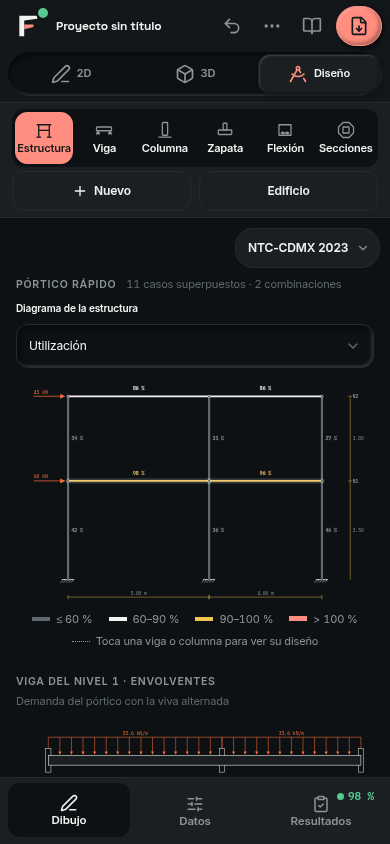
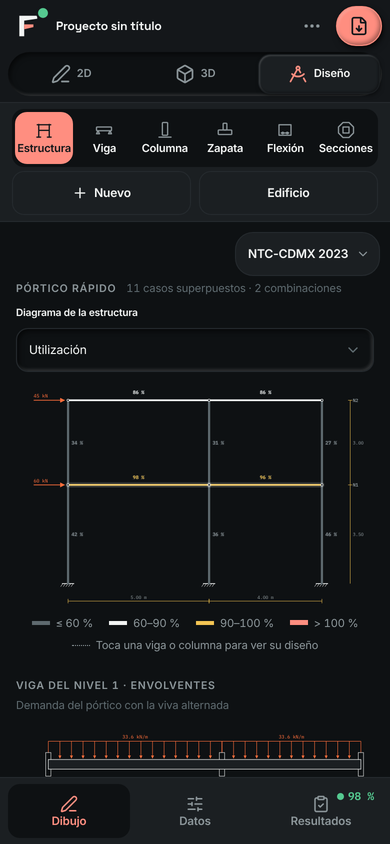
Brandbook: Diseño en teléfono con la barra mínima
Capturas 390×844 Día/Noche del proyecto completo en Diseño con la barra que
deja el nombre, «⋯» y PDF, y la nota de la ficha.

Claude-Session: https://claude.ai/code/session_013euGpTZ9ZP9ftezKs4gGH6

diff --git a/docs/brandbook/index.html b/docs/brandbook/index.html
@@ -176,7 +176,7 @@ body{background:#EDEFE9}
 <span style="font-family: 'IBM Plex Mono', monospace; font-size: 11px; letter-spacing: .14em; text-transform: uppercase; color: #5C6A6F">05 / 7 · Interfaces</span></div>
 <h1 style="margin: 0; font-family: 'Space Grotesk', sans-serif; font-weight: 600; font-size: 64px; line-height: 1; letter-spacing: -.035em">Tres mesas, un marco</h1>
 <p style="margin: 0; max-width: 920px; font-size: 19px; line-height: 1.55; color: #3F4A50">Capturas de la app en Día y Noche, actualizadas el 1 de octubre de 2026. Las tres mesas comparten navegación, guía contextual y nombre editable; cada herramienta conserva sus propios datos.</p>
-</header><section style="display: flex; flex-direction: column; gap: 16px"><div style="display: flex; align-items: baseline; gap: 16px"><span style="font-family: 'IBM Plex Mono', monospace; font-size: 11px; letter-spacing: .14em; text-transform: uppercase; color: #5C6A6F">Home</span><h2 style="margin: 0; font-family: 'Space Grotesk', sans-serif; font-weight: 600; font-size: 30px; letter-spacing: -.02em">Una sola portada</h2></div><div style="display: grid; grid-template-columns: repeat(2, minmax(0, 1fr)); gap: 20px"><figure style="margin: 0; display: flex; flex-direction: column; gap: 8px"><img src="assets/home-dia.png" alt="Home de FStructure · Día" style="display: block; width: 100%; aspect-ratio: 1440 / 900; border-radius: 12px; box-shadow: 0 0 0 1px #C6CDC6, 2px 6px 16px -4px rgb(20 23 26 / 22%)"><figcaption style="font-family: 'IBM Plex Mono', monospace; font-size: 11px; letter-spacing: .12em; text-transform: uppercase; color: #5C6A6F">Día</figcaption></figure><figure style="margin: 0; display: flex; flex-direction: column; gap: 8px"><img src="assets/home-noche.png" alt="Home de FStructure · Noche" style="display: block; width: 100%; aspect-ratio: 1440 / 900; border-radius: 12px; box-shadow: 0 0 0 1px #C6CDC6, 2px 6px 16px -4px rgb(20 23 26 / 22%)"><figcaption style="font-family: 'IBM Plex Mono', monospace; font-size: 11px; letter-spacing: .12em; text-transform: uppercase; color: #5C6A6F">Noche</figcaption></figure></div><ul style="margin: 0; padding-left: 18px; display: grid; grid-template-columns: repeat(2, minmax(0, 1fr)); gap: 6px 40px; color: #3F4A50"><li style="font-size: 14px; line-height: 1.5">Una sola portada (FEM se retiró el 7 de octubre de 2026): título, proyecto abierto con «Continuar» y «Nuevo», e ilustración clay del pórtico.</li><li style="font-size: 14px; line-height: 1.5">«Calcular por separado» (14 de octubre de 2026): ocho mosaicos —Modelo 2D, Modelo 3D, Viga, Columna, Zapata, Sección a flexión, Estudio de sección y Pórtico— que abren la misma pantalla de siempre como archivo individual: sin interruptor de modos ni enlaces, con «Individual · …» en la barra. <a href="assets/individual-zapata-dia.png">Zapata individual</a>. Cada mesa abre lista para calcular: el Modelo 2D vacío muestra «Empieza tu modelo 2D» con cinco estructuras completas (viga apoyada, voladizo, viga continua, pórtico y armadura Pratt), el generador y el dibujo libre (<a href="assets/individual-2d-inicio-dia.jpg">Día</a> · <a href="assets/individual-2d-inicio-movil-noche.jpg">teléfono Noche</a>); una pieza sola no lleva selector de elementos, sólo «Nuevo».</li><li style="font-size: 14px; line-height: 1.5">«Proyecto completo»: las tres tarjetas con escena (1 Modelo 2D, 2 Modelo 3D, 3 Diseño) del proyecto enlazado y «Nuevo proyecto»; con un individual abierto empiezan un proyecto nuevo.</li><li style="font-size: 14px; line-height: 1.5">Proyectos recientes y «Más» (Plantillas, Aula, Importar, Biblioteca); cada sección abre su página dentro de la Home con «← Inicio» y vive en la URL (<code>view=</code>).</li><li style="font-size: 14px; line-height: 1.5">Selector ES/EN y Día/Noche en la barra; en teléfono todo es una columna con objetivos de 44 px.</li></section><section style="display: flex; flex-direction: column; gap: 16px"><div style="display: flex; align-items: baseline; gap: 16px"><span style="font-family: 'IBM Plex Mono', monospace; font-size: 11px; letter-spacing: .14em; text-transform: uppercase; color: #5C6A6F">FS-A01</span><h2 style="margin: 0; font-family: 'Space Grotesk', sans-serif; font-weight: 600; font-size: 30px; letter-spacing: -.02em">FStructure 2D</h2></div><div style="display: grid; grid-template-columns: repeat(2, minmax(0, 1fr)); gap: 20px"><figure style="margin: 0; display: flex; flex-direction: column; gap: 8px"><img src="assets/model2d-dia.png" alt="FStructure 2D · Día" style="display: block; width: 100%; aspect-ratio: 1440 / 900; border-radius: 12px; box-shadow: 0 0 0 1px #C6CDC6, 2px 6px 16px -4px rgb(20 23 26 / 22%)"><figcaption style="font-family: 'IBM Plex Mono', monospace; font-size: 11px; letter-spacing: .12em; text-transform: uppercase; color: #5C6A6F">Día</figcaption></figure><figure style="margin: 0; display: flex; flex-direction: column; gap: 8px"><img src="assets/model2d-noche.png" alt="FStructure 2D · Noche" style="display: block; width: 100%; aspect-ratio: 1440 / 900; border-radius: 12px; box-shadow: 0 0 0 1px #C6CDC6, 2px 6px 16px -4px rgb(20 23 26 / 22%)"><figcaption style="font-family: 'IBM Plex Mono', monospace; font-size: 11px; letter-spacing: .12em; text-transform: uppercase; color: #5C6A6F">Noche</figcaption></figure></div><div style="display: grid; grid-template-columns: repeat(2, minmax(0, 1fr)); gap: 20px"><figure style="margin: 0; display: flex; flex-direction: column; gap: 8px"><img src="assets/model2d-dock-movil-noche.jpg" alt="FStructure 2D en teléfono · dock dinámico, teclado de coordenadas y resultados · Noche" style="display: block; width: 100%; border-radius: 12px; box-shadow: 0 0 0 1px #C6CDC6, 2px 6px 16px -4px rgb(20 23 26 / 22%)"><figcaption style="font-family: 'IBM Plex Mono', monospace; font-size: 11px; letter-spacing: .12em; text-transform: uppercase; color: #5C6A6F">Teléfono · Noche</figcaption></figure><figure style="margin: 0; display: flex; flex-direction: column; gap: 8px"><img src="assets/model2d-dock-movil-dia.jpg" alt="FStructure 2D en teléfono · apoyos, valor de carga y Avanzado · Día" style="display: block; width: 100%; border-radius: 12px; box-shadow: 0 0 0 1px #C6CDC6, 2px 6px 16px -4px rgb(20 23 26 / 22%)"><figcaption style="font-family: 'IBM Plex Mono', monospace; font-size: 11px; letter-spacing: .12em; text-transform: uppercase; color: #5C6A6F">Teléfono · Día</figcaption></figure><figure style="margin: 0; display: flex; flex-direction: column; gap: 8px"><img src="assets/model2d-inspector-dia.jpg" alt="FStructure 2D · Inspector en filas · Día" style="display: block; width: 100%; border-radius: 12px; box-shadow: 0 0 0 1px #C6CDC6, 2px 6px 16px -4px rgb(20 23 26 / 22%)"><figcaption style="font-family: 'IBM Plex Mono', monospace; font-size: 11px; letter-spacing: .12em; text-transform: uppercase; color: #5C6A6F">Inspector · Día</figcaption></figure></div><ul style="margin: 0; padding-left: 18px; display: grid; grid-template-columns: repeat(2, minmax(0, 1fr)); gap: 6px 40px; color: #3F4A50"><li style="font-size: 14px; line-height: 1.5">Barra: nombre editable con Escape y retorno del foco; estado, interruptor 2D | 3D | Diseño (en teléfono, los otros dos modos y sólo la marca: el nombre ya no cabía), Resultados, Panel, Guía, tema y Analizar.</li><li style="font-size: 14px; line-height: 1.5">Lienzo hundido a sangre y dock flotante. La herramienta se nombra sin instrucciones encima del lienzo; las barras se encadenan (el extremo nuevo es el inicio de la siguiente; Escape, «Terminar» o picar el último nudo cierran la cadena). El Inspector de una barra de pórtico o de armadura ofrece «Diseñar», que abre su revisión disponible en el modo Diseño.</li><li style="font-size: 14px; line-height: 1.5">Teléfono: dock dinámico (Seleccionar, Nodo, Barra, Apoyo, Carga y Más) con una cápsula que cambia con lo que se hace: coordenadas con el teclado completo del teléfono, que sube con el panel (↵ pasa de X a Y y coloca; se puede escribir «3,5 m») y ajuste a la rejilla al colocar; P · q · M al cargar; la carga recién puesta convierte el dock en su campo de valor, sobre el teclado, con su sentido a un toque; Propiedades, Editar, Diseñar y Eliminar con una selección. Apoyos en mosaicos con su dibujo. La página no se amplía (sólo el lienzo) y una hoja abierta ya no reencuadra el modelo.</li><li style="font-size: 14px; line-height: 1.5">Inspector en filas: tipo segmentado, X·Y en una línea, liberaciones N · V · M por extremo y «Avanzado» como lista de filas con su valor que se despliegan al tocarlas; las aclaraciones van tras un ⓘ. En teléfono la hoja nace a media altura y se arrastra por su asa.</li><li style="font-size: 14px; line-height: 1.5">Franja de estado al pie; Guía explica creación, análisis, resultados y atajos. Resultados suma la Lámina: N, V, M y Δ del miembro apilados con un cursor, con las mismas bandas que Diseño.</li></ul></section><section style="display: flex; flex-direction: column; gap: 16px"><div style="display: flex; align-items: baseline; gap: 16px"><span style="font-family: 'IBM Plex Mono', monospace; font-size: 11px; letter-spacing: .14em; text-transform: uppercase; color: #5C6A6F">FS-A01 · Modo 3D</span><h2 style="margin: 0; font-family: 'Space Grotesk', sans-serif; font-weight: 600; font-size: 30px; letter-spacing: -.02em">FStructure · 3D</h2></div><div style="display: grid; grid-template-columns: repeat(2, minmax(0, 1fr)); gap: 20px"><figure style="margin: 0; display: flex; flex-direction: column; gap: 8px"><img src="assets/space3d-dia.png" alt="FStructure · 3D · Día" style="display: block; width: 100%; aspect-ratio: 1440 / 900; border-radius: 12px; box-shadow: 0 0 0 1px #C6CDC6, 2px 6px 16px -4px rgb(20 23 26 / 22%)"><figcaption style="font-family: 'IBM Plex Mono', monospace; font-size: 11px; letter-spacing: .12em; text-transform: uppercase; color: #5C6A6F">Día</figcaption></figure><figure style="margin: 0; display: flex; flex-direction: column; gap: 8px"><img src="assets/space3d-noche.png" alt="FStructure · 3D · Noche" style="display: block; width: 100%; aspect-ratio: 1440 / 900; border-radius: 12px; box-shadow: 0 0 0 1px #C6CDC6, 2px 6px 16px -4px rgb(20 23 26 / 22%)"><figcaption style="font-family: 'IBM Plex Mono', monospace; font-size: 11px; letter-spacing: .12em; text-transform: uppercase; color: #5C6A6F">Noche</figcaption></figure></div><ul style="margin: 0; padding-left: 18px; display: grid; grid-template-columns: repeat(2, minmax(0, 1fr)); gap: 6px 40px; color: #3F4A50"><li style="font-size: 14px; line-height: 1.5">La misma barra que el 2D y Diseño, con el interruptor de modos y «Traer del 2D»: el pórtico plano extruido en pórticos paralelos (aquí, la plantilla en tres pórticos). Del 2D al 3D el plano se tiende y el espacio emerge.</li><li style="font-size: 14px; line-height: 1.5">Archivo, Definir, Asignar, Mostrar y Vista. En teléfono, los comandos se distribuyen por filas y el menú se desplaza sin quedar cubierto.</li><li style="font-size: 14px; line-height: 1.5">Dock de creación; Ruta del cálculo indica el siguiente paso. Abrir un menú da prioridad a sus comandos sobre las guías del visor.</li><li style="font-size: 14px; line-height: 1.5">Resultados con unidades, diagrama, valor crítico y tablas; franja con conteos, caso, vista y herramienta.</li></ul></section><section style="display: flex; flex-direction: column; gap: 16px"><div style="display: flex; align-items: baseline; gap: 16px"><span style="font-family: 'IBM Plex Mono', monospace; font-size: 11px; letter-spacing: .14em; text-transform: uppercase; color: #5C6A6F">FS-A01 · Modo Diseño</span><h2 style="margin: 0; font-family: 'Space Grotesk', sans-serif; font-weight: 600; font-size: 30px; letter-spacing: -.02em">FStructure · Diseño</h2></div><p style="margin:0;font-size:14px;line-height:1.6;color:#3F4A50">Móvil · 11 de octubre de 2026: seis elementos en una fila (desplazable en 320 px), acciones compactas, láminas sin cuadrícula, campos de 44 px y vistas completas también en horizontal. <a href="assets/movil-diseno-dia.png">Día</a> · <a href="assets/movil-diseno-noche.png">Noche</a>. Home en teléfono: lo abierto, los mosaicos individuales en dos columnas y el proyecto completo antes de recientes: <a href="assets/movil-home-dia.png">Día</a> · <a href="assets/movil-home-noche.png">Noche</a>.</p><div style="display: grid; grid-template-columns: repeat(2, minmax(0, 1fr)); gap: 20px"><figure style="margin: 0; display: flex; flex-direction: column; gap: 8px"><img src="assets/design-dia.png" alt="FStructure · Diseño · Día" style="display: block; width: 100%; aspect-ratio: 1440 / 900; border-radius: 12px; box-shadow: 0 0 0 1px #C6CDC6, 2px 6px 16px -4px rgb(20 23 26 / 22%)"><figcaption style="font-family: 'IBM Plex Mono', monospace; font-size: 11px; letter-spacing: .12em; text-transform: uppercase; color: #5C6A6F">Día</figcaption></figure><figure style="margin: 0; display: flex; flex-direction: column; gap: 8px"><img src="assets/design-noche.png" alt="FStructure · Diseño · Noche" style="display: block; width: 100%; aspect-ratio: 1440 / 900; border-radius: 12px; box-shadow: 0 0 0 1px #C6CDC6, 2px 6px 16px -4px rgb(20 23 26 / 22%)"><figcaption style="font-family: 'IBM Plex Mono', monospace; font-size: 11px; letter-spacing: .12em; text-transform: uppercase; color: #5C6A6F">Noche</figcaption></figure></div><ul style="margin: 0; padding-left: 18px; display: grid; grid-template-columns: repeat(2, minmax(0, 1fr)); gap: 6px 40px; color: #3F4A50"><li style="font-size: 14px; line-height: 1.5">La misma barra y el mismo proyecto que los modos 2D y 3D, con el interruptor 2D | 3D | Diseño, el veredicto, la Guía de diseño y Copiar memoria; un fallo de copia se explica y se reintenta.</li><li style="font-size: 14px; line-height: 1.5">Datos explica cálculo automático y unidades. Revisar datos abre el formulario y lleva el foco al primer campo inválido.</li><li style="font-size: 14px; line-height: 1.5">DCL antes de las láminas: la viga dibuja sus cargas últimas y las reacciones de cada apoyo (con momento en el empotramiento) y cierra ΣFy = 0; la tabla «Reacciones» da CM, CV, combinación y máxima alternada, y ambas van a la memoria. Los cortes de zapata aislada, corrida y combinada muestran Pu o wu, la presión del suelo y las secciones críticas M, d y d/2 con su Mu y Vu. <a href="assets/viga-dcl-dia.jpg">Viga · Día</a> · <a href="assets/viga-dcl-noche.jpg">Noche</a> · <a href="assets/zapata-cortes-dia.jpg">Zapata</a>.</li><li style="font-size: 14px; line-height: 1.5">Láminas con valores por claro y apoyo, resistencia φMn y φVn escalonada y un cursor que lee M, V, φMn, φVn y Δ en cualquier sección (puntero, toque o flechas).</li><li style="font-size: 14px; line-height: 1.5">Dock de Estructura, Viga, Columna, Zapata y Secciones. Estructura diseña el Modelo 2D, un eje del Modelo 3D o un pórtico rápido: utilización de cada miembro (gris, tinta, aviso, error), envolventes M/V/N, deformada y fichas por nivel. Con el 3D, «Revisar los N ejes» abre la planta del edificio (aquí, el pórtico traído en tres pórticos): ejes y columnas con la misma escala de utilización, una tabla para abrir cada eje y «Guardar los N ejes en la memoria» para llevar el edificio al PDF. El análisis por casos del Modelo 2D, incluidos recálculos agrietados, y las propuestas del pórtico/modelos 2D/3D corren en workers con cancelación al editar. <a href="assets/design-worker-4x4-dia.jpg">Caso 4 × 4 en Día</a> · <a href="assets/design-worker-4x4-noche.jpg">Noche</a> · <a href="assets/design-worker-4x4-movil.jpg">Móvil</a>. El cálculo de todos los ejes corre fuera del hilo principal y espera a que termine la transición entre modos. «Ver en 3D» (o «Ver en el Modelo») vuelve con las barras del elemento seleccionadas, y «Proponer» ajusta vigas por nivel y columnas por entrepiso con igual o menos concreto que la propuesta uniforme (en el Modelo 2D, con «Aplicar al modelo»; en el 3D, comprueba todos los ejes y «Aplicar al 3D» permite deshacer desde ese modo). <a href="assets/design-grupos-3d.jpg">Captura de la propuesta 3D</a>. La revisión inicial de acero muestra fluencia total NTC con combinación del modelo, selección de barra y estado no concluyente; guarda selecciones recalculadas y exporta su PDF no concluyente con modelo reproducible adjunto. <a href="assets/design-acero-memoria-dia.jpg">Acero en Día</a> · <a href="assets/design-acero-memoria-noche.jpg">Noche</a> · <a href="assets/design-acero-memoria-movil.jpg">Móvil</a>.</li></ul></section><section style="display: flex; flex-direction: column; gap: 16px"><div style="display: flex; align-items: baseline; gap: 16px"><span style="font-family: 'IBM Plex Mono', monospace; font-size: 11px; letter-spacing: .14em; text-transform: uppercase; color: #5C6A6F">Consistencia</span><h2 style="margin: 0; font-family: 'Space Grotesk', sans-serif; font-weight: 600; font-size: 30px; letter-spacing: -.02em">Reglas comunes de las mesas</h2></div><div style="display: flex; flex-direction: column; border: 1px solid #DDE2DC; border-radius: 6px; background: #FFFEFA"><div style="display: grid; grid-template-columns: 180px minmax(0, 1fr) minmax(0, 1fr); gap: 20px; padding: 12px 18px; border-bottom: 1px solid #DDE2DC; font-family: 'IBM Plex Mono', monospace; font-size: 10.5px; letter-spacing: .12em; text-transform: uppercase; color: #5C6A6F"><span>Tema</span><span>Regla</span><span>Estado</span></div><div style="display: grid; grid-template-columns: 180px minmax(0, 1fr) minmax(0, 1fr); gap: 20px; padding: 12px 18px; border-bottom: 1px solid #EDEFE9; font-size: 14px; line-height: 1.45"><strong style="font-weight: 600">Estado</strong><span style="color: #5C6A6F">Chip al centro de la barra: estado + madurez</span><span>Hecho en las 2 mesas y los 3 modos de FStructure; Diseño sube su veredicto.</span></div><div style="display: grid; grid-template-columns: 180px minmax(0, 1fr) minmax(0, 1fr); gap: 20px; padding: 12px 18px; border-bottom: 1px solid #EDEFE9; font-size: 14px; line-height: 1.45"><strong style="font-weight: 600">Panel</strong><span style="color: #5C6A6F">Botón «Panel» antes del tema</span><span>Hecho: 2D, 3D, FEM y Diseño (dos paneles).</span></div><div style="display: grid; grid-template-columns: 180px minmax(0, 1fr) minmax(0, 1fr); gap: 20px; padding: 12px 18px; border-bottom: 1px solid #EDEFE9; font-size: 14px; line-height: 1.45"><strong style="font-weight: 600">Tema</strong><span style="color: #5C6A6F">Siempre junto a la acción primaria</span><span>Hecho: sale de la consola de 2D.</span></div><div style="display: grid; grid-template-columns: 180px minmax(0, 1fr) minmax(0, 1fr); gap: 20px; padding: 12px 18px; border-bottom: 1px solid #EDEFE9; font-size: 14px; line-height: 1.45"><strong style="font-weight: 600">Primaria</strong><span style="color: #5C6A6F">Mismo lugar y forma; el verbo es de la herramienta</span><span>Analizar (Modelo) o Copiar memoria (Diseño) · Analizar · Analizar.</span></div><div style="display: grid; grid-template-columns: 180px minmax(0, 1fr) minmax(0, 1fr); gap: 20px; padding: 12px 18px; border-bottom: 1px solid #EDEFE9; font-size: 14px; line-height: 1.45"><strong style="font-weight: 600">Dock</strong><span style="color: #5C6A6F">Barra flotante al pie</span><span>Hecho: FEM gana su dock de intercambio.</span></div><div style="display: grid; grid-template-columns: 180px minmax(0, 1fr) minmax(0, 1fr); gap: 20px; padding: 12px 18px; border-bottom: 1px solid #EDEFE9; font-size: 14px; line-height: 1.45"><strong style="font-weight: 600">Franja de estado</strong><span style="color: #5C6A6F">Mono al pie del shell</span><span>Hecho en 2D, 3D y FEM; Diseño la resume en la barra.</span></div></div></section>
+</header><section style="display: flex; flex-direction: column; gap: 16px"><div style="display: flex; align-items: baseline; gap: 16px"><span style="font-family: 'IBM Plex Mono', monospace; font-size: 11px; letter-spacing: .14em; text-transform: uppercase; color: #5C6A6F">Home</span><h2 style="margin: 0; font-family: 'Space Grotesk', sans-serif; font-weight: 600; font-size: 30px; letter-spacing: -.02em">Una sola portada</h2></div><div style="display: grid; grid-template-columns: repeat(2, minmax(0, 1fr)); gap: 20px"><figure style="margin: 0; display: flex; flex-direction: column; gap: 8px"><img src="assets/home-dia.png" alt="Home de FStructure · Día" style="display: block; width: 100%; aspect-ratio: 1440 / 900; border-radius: 12px; box-shadow: 0 0 0 1px #C6CDC6, 2px 6px 16px -4px rgb(20 23 26 / 22%)"><figcaption style="font-family: 'IBM Plex Mono', monospace; font-size: 11px; letter-spacing: .12em; text-transform: uppercase; color: #5C6A6F">Día</figcaption></figure><figure style="margin: 0; display: flex; flex-direction: column; gap: 8px"><img src="assets/home-noche.png" alt="Home de FStructure · Noche" style="display: block; width: 100%; aspect-ratio: 1440 / 900; border-radius: 12px; box-shadow: 0 0 0 1px #C6CDC6, 2px 6px 16px -4px rgb(20 23 26 / 22%)"><figcaption style="font-family: 'IBM Plex Mono', monospace; font-size: 11px; letter-spacing: .12em; text-transform: uppercase; color: #5C6A6F">Noche</figcaption></figure></div><ul style="margin: 0; padding-left: 18px; display: grid; grid-template-columns: repeat(2, minmax(0, 1fr)); gap: 6px 40px; color: #3F4A50"><li style="font-size: 14px; line-height: 1.5">Una sola portada (FEM se retiró el 7 de octubre de 2026): título, proyecto abierto con «Continuar» y «Nuevo», e ilustración clay del pórtico.</li><li style="font-size: 14px; line-height: 1.5">«Calcular por separado» (14 de octubre de 2026): ocho mosaicos —Modelo 2D, Modelo 3D, Viga, Columna, Zapata, Sección a flexión, Estudio de sección y Pórtico— que abren la misma pantalla de siempre como archivo individual: sin interruptor de modos ni enlaces, con «Individual · …» en la barra. <a href="assets/individual-zapata-dia.png">Zapata individual</a>. Cada mesa abre lista para calcular: el Modelo 2D vacío muestra «Empieza tu modelo 2D» con cinco estructuras completas (viga apoyada, voladizo, viga continua, pórtico y armadura Pratt), el generador y el dibujo libre (<a href="assets/individual-2d-inicio-dia.jpg">Día</a> · <a href="assets/individual-2d-inicio-movil-noche.jpg">teléfono Noche</a>); una pieza sola no lleva selector de elementos, sólo «Nuevo».</li><li style="font-size: 14px; line-height: 1.5">«Proyecto completo»: las tres tarjetas con escena (1 Modelo 2D, 2 Modelo 3D, 3 Diseño) del proyecto enlazado y «Nuevo proyecto»; con un individual abierto empiezan un proyecto nuevo.</li><li style="font-size: 14px; line-height: 1.5">Proyectos recientes y «Más» (Plantillas, Aula, Importar, Biblioteca); cada sección abre su página dentro de la Home con «← Inicio» y vive en la URL (<code>view=</code>).</li><li style="font-size: 14px; line-height: 1.5">Selector ES/EN y Día/Noche en la barra; en teléfono todo es una columna con objetivos de 44 px.</li></section><section style="display: flex; flex-direction: column; gap: 16px"><div style="display: flex; align-items: baseline; gap: 16px"><span style="font-family: 'IBM Plex Mono', monospace; font-size: 11px; letter-spacing: .14em; text-transform: uppercase; color: #5C6A6F">FS-A01</span><h2 style="margin: 0; font-family: 'Space Grotesk', sans-serif; font-weight: 600; font-size: 30px; letter-spacing: -.02em">FStructure 2D</h2></div><div style="display: grid; grid-template-columns: repeat(2, minmax(0, 1fr)); gap: 20px"><figure style="margin: 0; display: flex; flex-direction: column; gap: 8px"><img src="assets/model2d-dia.png" alt="FStructure 2D · Día" style="display: block; width: 100%; aspect-ratio: 1440 / 900; border-radius: 12px; box-shadow: 0 0 0 1px #C6CDC6, 2px 6px 16px -4px rgb(20 23 26 / 22%)"><figcaption style="font-family: 'IBM Plex Mono', monospace; font-size: 11px; letter-spacing: .12em; text-transform: uppercase; color: #5C6A6F">Día</figcaption></figure><figure style="margin: 0; display: flex; flex-direction: column; gap: 8px"><img src="assets/model2d-noche.png" alt="FStructure 2D · Noche" style="display: block; width: 100%; aspect-ratio: 1440 / 900; border-radius: 12px; box-shadow: 0 0 0 1px #C6CDC6, 2px 6px 16px -4px rgb(20 23 26 / 22%)"><figcaption style="font-family: 'IBM Plex Mono', monospace; font-size: 11px; letter-spacing: .12em; text-transform: uppercase; color: #5C6A6F">Noche</figcaption></figure></div><div style="display: grid; grid-template-columns: repeat(2, minmax(0, 1fr)); gap: 20px"><figure style="margin: 0; display: flex; flex-direction: column; gap: 8px"><img src="assets/model2d-dock-movil-noche.jpg" alt="FStructure 2D en teléfono · dock dinámico, teclado de coordenadas y resultados · Noche" style="display: block; width: 100%; border-radius: 12px; box-shadow: 0 0 0 1px #C6CDC6, 2px 6px 16px -4px rgb(20 23 26 / 22%)"><figcaption style="font-family: 'IBM Plex Mono', monospace; font-size: 11px; letter-spacing: .12em; text-transform: uppercase; color: #5C6A6F">Teléfono · Noche</figcaption></figure><figure style="margin: 0; display: flex; flex-direction: column; gap: 8px"><img src="assets/model2d-dock-movil-dia.jpg" alt="FStructure 2D en teléfono · apoyos, valor de carga y Avanzado · Día" style="display: block; width: 100%; border-radius: 12px; box-shadow: 0 0 0 1px #C6CDC6, 2px 6px 16px -4px rgb(20 23 26 / 22%)"><figcaption style="font-family: 'IBM Plex Mono', monospace; font-size: 11px; letter-spacing: .12em; text-transform: uppercase; color: #5C6A6F">Teléfono · Día</figcaption></figure><figure style="margin: 0; display: flex; flex-direction: column; gap: 8px"><img src="assets/model2d-inspector-dia.jpg" alt="FStructure 2D · Inspector en filas · Día" style="display: block; width: 100%; border-radius: 12px; box-shadow: 0 0 0 1px #C6CDC6, 2px 6px 16px -4px rgb(20 23 26 / 22%)"><figcaption style="font-family: 'IBM Plex Mono', monospace; font-size: 11px; letter-spacing: .12em; text-transform: uppercase; color: #5C6A6F">Inspector · Día</figcaption></figure></div><ul style="margin: 0; padding-left: 18px; display: grid; grid-template-columns: repeat(2, minmax(0, 1fr)); gap: 6px 40px; color: #3F4A50"><li style="font-size: 14px; line-height: 1.5">Barra: nombre editable con Escape y retorno del foco; estado, interruptor 2D | 3D | Diseño (en teléfono, los otros dos modos y sólo la marca: el nombre ya no cabía), Resultados, Panel, Guía, tema y Analizar.</li><li style="font-size: 14px; line-height: 1.5">Lienzo hundido a sangre y dock flotante. La herramienta se nombra sin instrucciones encima del lienzo; las barras se encadenan (el extremo nuevo es el inicio de la siguiente; Escape, «Terminar» o picar el último nudo cierran la cadena). El Inspector de una barra de pórtico o de armadura ofrece «Diseñar», que abre su revisión disponible en el modo Diseño.</li><li style="font-size: 14px; line-height: 1.5">Teléfono: dock dinámico (Seleccionar, Nodo, Barra, Apoyo, Carga y Más) con una cápsula que cambia con lo que se hace: coordenadas con el teclado completo del teléfono, que sube con el panel (↵ pasa de X a Y y coloca; se puede escribir «3,5 m») y ajuste a la rejilla al colocar; P · q · M al cargar; la carga recién puesta convierte el dock en su campo de valor, sobre el teclado, con su sentido a un toque; Propiedades, Editar, Diseñar y Eliminar con una selección. Apoyos en mosaicos con su dibujo. La página no se amplía (sólo el lienzo) y una hoja abierta ya no reencuadra el modelo.</li><li style="font-size: 14px; line-height: 1.5">Inspector en filas: tipo segmentado, X·Y en una línea, liberaciones N · V · M por extremo y «Avanzado» como lista de filas con su valor que se despliegan al tocarlas; las aclaraciones van tras un ⓘ. En teléfono la hoja nace a media altura y se arrastra por su asa.</li><li style="font-size: 14px; line-height: 1.5">Franja de estado al pie; Guía explica creación, análisis, resultados y atajos. Resultados suma la Lámina: N, V, M y Δ del miembro apilados con un cursor, con las mismas bandas que Diseño.</li></ul></section><section style="display: flex; flex-direction: column; gap: 16px"><div style="display: flex; align-items: baseline; gap: 16px"><span style="font-family: 'IBM Plex Mono', monospace; font-size: 11px; letter-spacing: .14em; text-transform: uppercase; color: #5C6A6F">FS-A01 · Modo 3D</span><h2 style="margin: 0; font-family: 'Space Grotesk', sans-serif; font-weight: 600; font-size: 30px; letter-spacing: -.02em">FStructure · 3D</h2></div><div style="display: grid; grid-template-columns: repeat(2, minmax(0, 1fr)); gap: 20px"><figure style="margin: 0; display: flex; flex-direction: column; gap: 8px"><img src="assets/space3d-dia.png" alt="FStructure · 3D · Día" style="display: block; width: 100%; aspect-ratio: 1440 / 900; border-radius: 12px; box-shadow: 0 0 0 1px #C6CDC6, 2px 6px 16px -4px rgb(20 23 26 / 22%)"><figcaption style="font-family: 'IBM Plex Mono', monospace; font-size: 11px; letter-spacing: .12em; text-transform: uppercase; color: #5C6A6F">Día</figcaption></figure><figure style="margin: 0; display: flex; flex-direction: column; gap: 8px"><img src="assets/space3d-noche.png" alt="FStructure · 3D · Noche" style="display: block; width: 100%; aspect-ratio: 1440 / 900; border-radius: 12px; box-shadow: 0 0 0 1px #C6CDC6, 2px 6px 16px -4px rgb(20 23 26 / 22%)"><figcaption style="font-family: 'IBM Plex Mono', monospace; font-size: 11px; letter-spacing: .12em; text-transform: uppercase; color: #5C6A6F">Noche</figcaption></figure></div><ul style="margin: 0; padding-left: 18px; display: grid; grid-template-columns: repeat(2, minmax(0, 1fr)); gap: 6px 40px; color: #3F4A50"><li style="font-size: 14px; line-height: 1.5">La misma barra que el 2D y Diseño, con el interruptor de modos y «Traer del 2D»: el pórtico plano extruido en pórticos paralelos (aquí, la plantilla en tres pórticos). Del 2D al 3D el plano se tiende y el espacio emerge.</li><li style="font-size: 14px; line-height: 1.5">Archivo, Definir, Asignar, Mostrar y Vista. En teléfono, los comandos se distribuyen por filas y el menú se desplaza sin quedar cubierto.</li><li style="font-size: 14px; line-height: 1.5">Dock de creación; Ruta del cálculo indica el siguiente paso. Abrir un menú da prioridad a sus comandos sobre las guías del visor.</li><li style="font-size: 14px; line-height: 1.5">Resultados con unidades, diagrama, valor crítico y tablas; franja con conteos, caso, vista y herramienta.</li></ul></section><section style="display: flex; flex-direction: column; gap: 16px"><div style="display: flex; align-items: baseline; gap: 16px"><span style="font-family: 'IBM Plex Mono', monospace; font-size: 11px; letter-spacing: .14em; text-transform: uppercase; color: #5C6A6F">FS-A01 · Modo Diseño</span><h2 style="margin: 0; font-family: 'Space Grotesk', sans-serif; font-weight: 600; font-size: 30px; letter-spacing: -.02em">FStructure · Diseño</h2></div><p style="margin:0;font-size:14px;line-height:1.6;color:#3F4A50">Móvil · 11 de octubre de 2026: seis elementos en una fila (desplazable en 320 px), acciones compactas, láminas sin cuadrícula, campos de 44 px y vistas completas también en horizontal. Barra mínima (15 de octubre de 2026): en teléfono, 3D y Diseño dejan arriba el nombre, «⋯» y la acción principal (Analizar o PDF); Deshacer, Traer del 2D, Panel y Memoria pasan a «⋯» en filas de 44 px, y la hoja del inspector del 3D no pasa del 45 % del alto. <a href="assets/movil-diseno-dia.png">Día</a> · <a href="assets/movil-diseno-noche.png">Noche</a>. Home en teléfono: lo abierto, los mosaicos individuales en dos columnas y el proyecto completo antes de recientes: <a href="assets/movil-home-dia.png">Día</a> · <a href="assets/movil-home-noche.png">Noche</a>.</p><div style="display: grid; grid-template-columns: repeat(2, minmax(0, 1fr)); gap: 20px"><figure style="margin: 0; display: flex; flex-direction: column; gap: 8px"><img src="assets/design-dia.png" alt="FStructure · Diseño · Día" style="display: block; width: 100%; aspect-ratio: 1440 / 900; border-radius: 12px; box-shadow: 0 0 0 1px #C6CDC6, 2px 6px 16px -4px rgb(20 23 26 / 22%)"><figcaption style="font-family: 'IBM Plex Mono', monospace; font-size: 11px; letter-spacing: .12em; text-transform: uppercase; color: #5C6A6F">Día</figcaption></figure><figure style="margin: 0; display: flex; flex-direction: column; gap: 8px"><img src="assets/design-noche.png" alt="FStructure · Diseño · Noche" style="display: block; width: 100%; aspect-ratio: 1440 / 900; border-radius: 12px; box-shadow: 0 0 0 1px #C6CDC6, 2px 6px 16px -4px rgb(20 23 26 / 22%)"><figcaption style="font-family: 'IBM Plex Mono', monospace; font-size: 11px; letter-spacing: .12em; text-transform: uppercase; color: #5C6A6F">Noche</figcaption></figure></div><ul style="margin: 0; padding-left: 18px; display: grid; grid-template-columns: repeat(2, minmax(0, 1fr)); gap: 6px 40px; color: #3F4A50"><li style="font-size: 14px; line-height: 1.5">La misma barra y el mismo proyecto que los modos 2D y 3D, con el interruptor 2D | 3D | Diseño, el veredicto, la Guía de diseño y Copiar memoria; un fallo de copia se explica y se reintenta.</li><li style="font-size: 14px; line-height: 1.5">Datos explica cálculo automático y unidades. Revisar datos abre el formulario y lleva el foco al primer campo inválido.</li><li style="font-size: 14px; line-height: 1.5">DCL antes de las láminas: la viga dibuja sus cargas últimas y las reacciones de cada apoyo (con momento en el empotramiento) y cierra ΣFy = 0; la tabla «Reacciones» da CM, CV, combinación y máxima alternada, y ambas van a la memoria. Los cortes de zapata aislada, corrida y combinada muestran Pu o wu, la presión del suelo y las secciones críticas M, d y d/2 con su Mu y Vu. <a href="assets/viga-dcl-dia.jpg">Viga · Día</a> · <a href="assets/viga-dcl-noche.jpg">Noche</a> · <a href="assets/zapata-cortes-dia.jpg">Zapata</a>.</li><li style="font-size: 14px; line-height: 1.5">Láminas con valores por claro y apoyo, resistencia φMn y φVn escalonada y un cursor que lee M, V, φMn, φVn y Δ en cualquier sección (puntero, toque o flechas).</li><li style="font-size: 14px; line-height: 1.5">Dock de Estructura, Viga, Columna, Zapata y Secciones. Estructura diseña el Modelo 2D, un eje del Modelo 3D o un pórtico rápido: utilización de cada miembro (gris, tinta, aviso, error), envolventes M/V/N, deformada y fichas por nivel. Con el 3D, «Revisar los N ejes» abre la planta del edificio (aquí, el pórtico traído en tres pórticos): ejes y columnas con la misma escala de utilización, una tabla para abrir cada eje y «Guardar los N ejes en la memoria» para llevar el edificio al PDF. El análisis por casos del Modelo 2D, incluidos recálculos agrietados, y las propuestas del pórtico/modelos 2D/3D corren en workers con cancelación al editar. <a href="assets/design-worker-4x4-dia.jpg">Caso 4 × 4 en Día</a> · <a href="assets/design-worker-4x4-noche.jpg">Noche</a> · <a href="assets/design-worker-4x4-movil.jpg">Móvil</a>. El cálculo de todos los ejes corre fuera del hilo principal y espera a que termine la transición entre modos. «Ver en 3D» (o «Ver en el Modelo») vuelve con las barras del elemento seleccionadas, y «Proponer» ajusta vigas por nivel y columnas por entrepiso con igual o menos concreto que la propuesta uniforme (en el Modelo 2D, con «Aplicar al modelo»; en el 3D, comprueba todos los ejes y «Aplicar al 3D» permite deshacer desde ese modo). <a href="assets/design-grupos-3d.jpg">Captura de la propuesta 3D</a>. La revisión inicial de acero muestra fluencia total NTC con combinación del modelo, selección de barra y estado no concluyente; guarda selecciones recalculadas y exporta su PDF no concluyente con modelo reproducible adjunto. <a href="assets/design-acero-memoria-dia.jpg">Acero en Día</a> · <a href="assets/design-acero-memoria-noche.jpg">Noche</a> · <a href="assets/design-acero-memoria-movil.jpg">Móvil</a>.</li></ul></section><section style="display: flex; flex-direction: column; gap: 16px"><div style="display: flex; align-items: baseline; gap: 16px"><span style="font-family: 'IBM Plex Mono', monospace; font-size: 11px; letter-spacing: .14em; text-transform: uppercase; color: #5C6A6F">Consistencia</span><h2 style="margin: 0; font-family: 'Space Grotesk', sans-serif; font-weight: 600; font-size: 30px; letter-spacing: -.02em">Reglas comunes de las mesas</h2></div><div style="display: flex; flex-direction: column; border: 1px solid #DDE2DC; border-radius: 6px; background: #FFFEFA"><div style="display: grid; grid-template-columns: 180px minmax(0, 1fr) minmax(0, 1fr); gap: 20px; padding: 12px 18px; border-bottom: 1px solid #DDE2DC; font-family: 'IBM Plex Mono', monospace; font-size: 10.5px; letter-spacing: .12em; text-transform: uppercase; color: #5C6A6F"><span>Tema</span><span>Regla</span><span>Estado</span></div><div style="display: grid; grid-template-columns: 180px minmax(0, 1fr) minmax(0, 1fr); gap: 20px; padding: 12px 18px; border-bottom: 1px solid #EDEFE9; font-size: 14px; line-height: 1.45"><strong style="font-weight: 600">Estado</strong><span style="color: #5C6A6F">Chip al centro de la barra: estado + madurez</span><span>Hecho en las 2 mesas y los 3 modos de FStructure; Diseño sube su veredicto.</span></div><div style="display: grid; grid-template-columns: 180px minmax(0, 1fr) minmax(0, 1fr); gap: 20px; padding: 12px 18px; border-bottom: 1px solid #EDEFE9; font-size: 14px; line-height: 1.45"><strong style="font-weight: 600">Panel</strong><span style="color: #5C6A6F">Botón «Panel» antes del tema</span><span>Hecho: 2D, 3D, FEM y Diseño (dos paneles).</span></div><div style="display: grid; grid-template-columns: 180px minmax(0, 1fr) minmax(0, 1fr); gap: 20px; padding: 12px 18px; border-bottom: 1px solid #EDEFE9; font-size: 14px; line-height: 1.45"><strong style="font-weight: 600">Tema</strong><span style="color: #5C6A6F">Siempre junto a la acción primaria</span><span>Hecho: sale de la consola de 2D.</span></div><div style="display: grid; grid-template-columns: 180px minmax(0, 1fr) minmax(0, 1fr); gap: 20px; padding: 12px 18px; border-bottom: 1px solid #EDEFE9; font-size: 14px; line-height: 1.45"><strong style="font-weight: 600">Primaria</strong><span style="color: #5C6A6F">Mismo lugar y forma; el verbo es de la herramienta</span><span>Analizar (Modelo) o Copiar memoria (Diseño) · Analizar · Analizar.</span></div><div style="display: grid; grid-template-columns: 180px minmax(0, 1fr) minmax(0, 1fr); gap: 20px; padding: 12px 18px; border-bottom: 1px solid #EDEFE9; font-size: 14px; line-height: 1.45"><strong style="font-weight: 600">Dock</strong><span style="color: #5C6A6F">Barra flotante al pie</span><span>Hecho: FEM gana su dock de intercambio.</span></div><div style="display: grid; grid-template-columns: 180px minmax(0, 1fr) minmax(0, 1fr); gap: 20px; padding: 12px 18px; border-bottom: 1px solid #EDEFE9; font-size: 14px; line-height: 1.45"><strong style="font-weight: 600">Franja de estado</strong><span style="color: #5C6A6F">Mono al pie del shell</span><span>Hecho en 2D, 3D y FEM; Diseño la resume en la barra.</span></div></div></section>
 </div>
 </section>
 <section class="board" id="herramientas" aria-label="Herramientas">
